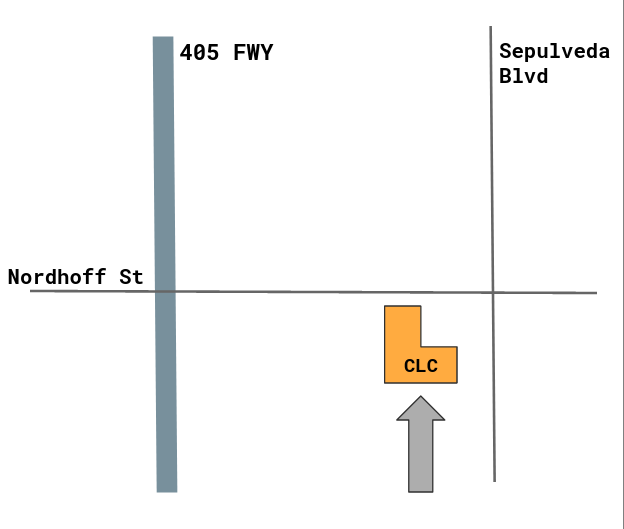
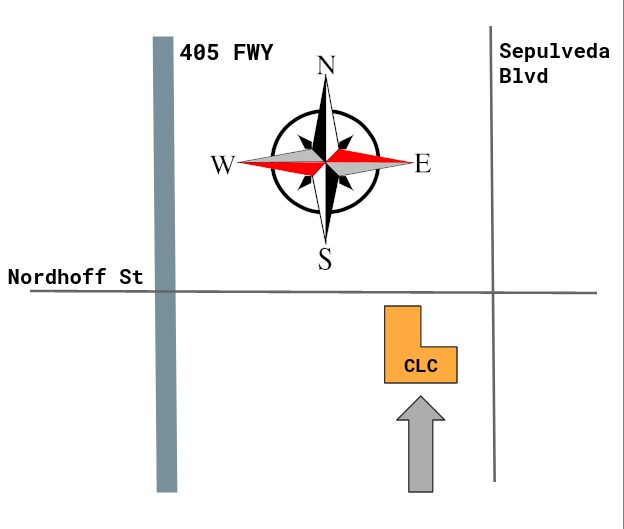
Added compass to map, more responsiveness.

Changed region(s): [[0.3349, 0.0907, 0.7003, 0.5142]]

diff --git a/styles/modules/homepage.scss b/styles/modules/homepage.scss
@@ -81,7 +81,7 @@
     }
 
     @include mq(m1600) {
-      grid-template-columns: 40% 40%;
+      grid-template-columns: 45% 45%;
       min-height: 74vh;
     }
 
@@ -94,7 +94,7 @@
     background-repeat: no-repeat;
     background-size: cover;
     background-attachment: fixed;
-    margin-bottom: 3rem;
+    margin-bottom: 1.5rem;
   }
 
   &TeaserFloatText {
@@ -164,37 +164,52 @@
   }
 
   &TeaserData {
-    @include mq(m600) {
-      padding: 0.2rem 2rem;
+    @include mq(1200) {
+      font-size: xx-large;
     }
 
-    padding: 0.2rem;
-    font-size: large;
+    font-family: monospace;
+    color: $shadow;
+    font-size: x-large;
   }
 
   &TeaserImg {
     @include mq(m600) {
       width: 64%;
-      margin-top: 0;
+    }
+
+    @include mq(m900) {
+      width: 50%;
+    }
+
+    @include mq(m1200) {
+      width: 68%;
     }
 
     margin-top: 2rem;
     filter: contrast(140%);
-    width: 100%;
+    width: 90%;
   }
 
   &TeaserAddyBox {
     @include mq(m600) {
-      padding: 0.5rem;
       width: 64%;
       filter: drop-shadow(0.4rem 0.4rem $black);
+    }
+
+    @include mq(m900) {
+      width: 50%;
+    }
+
+    @include mq(m1200) {
+      width: 68%;
     }
 
     margin-bottom: 1.8rem;
     background-color: #fafafa;
     margin-top: 2rem;
     color: $black;
-    width: 100%;
+    width: 90%;
   }
 
   &AddyButton {

diff --git a/Components/Footer.js b/Components/Footer.js
@@ -4,9 +4,9 @@ import Link from "next/link";
 const Footer = () => {
   return (
     <div className={styles.footerContainer}>
-      <div>
-        <h3>CLC TIRES</h3>
-        <h4>
+      <div className={styles.footerBox}>
+        <h3 className={styles.footerHeadline}>CLC TIRES</h3>
+        <h4 className={styles.footerInfo}>
           <Link href="tel:8185218163">818-830-5189</Link> <br />
           15412 Nordhoff St <br />
           North Hills, CA 91343 <br /> <br />

diff --git a/styles/modules/footer.scss b/styles/modules/footer.scss
@@ -9,7 +9,22 @@
     color: $white;
     text-align: center;
     font-family: "Red Hat Mono", sans-serif;
+  }
+
+  &Headline {
+    @include mq(m900) {
+      font-size: medium;
+    }
+
     font-size: small;
+  }
+
+  &Info {
+    @include mq(m900) {
+      font-size: large;
+    }
+
+    font-size: medium;
   }
 
   &Copy {
